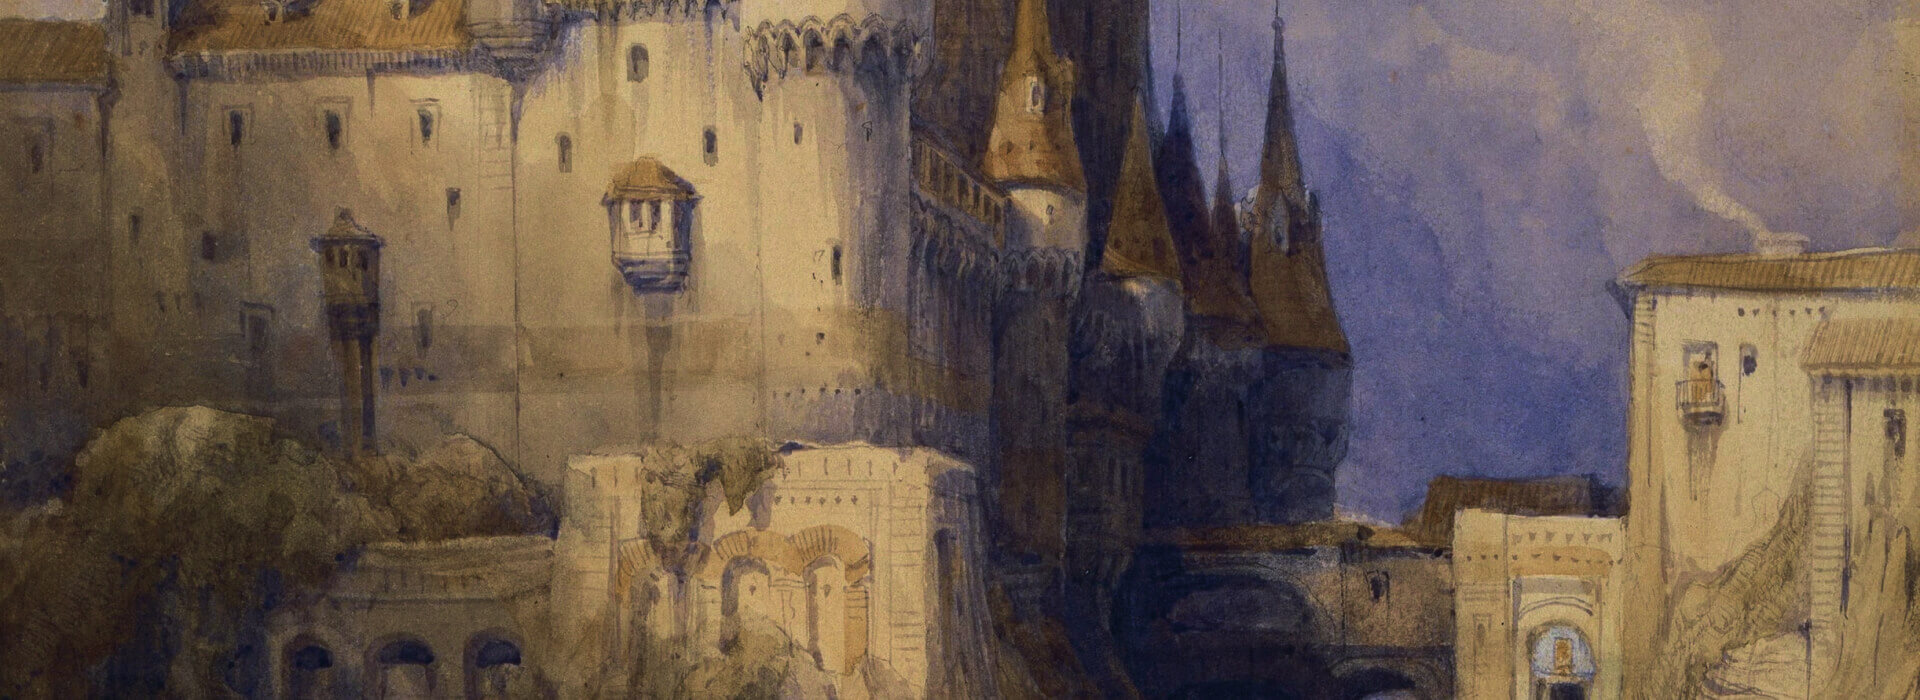
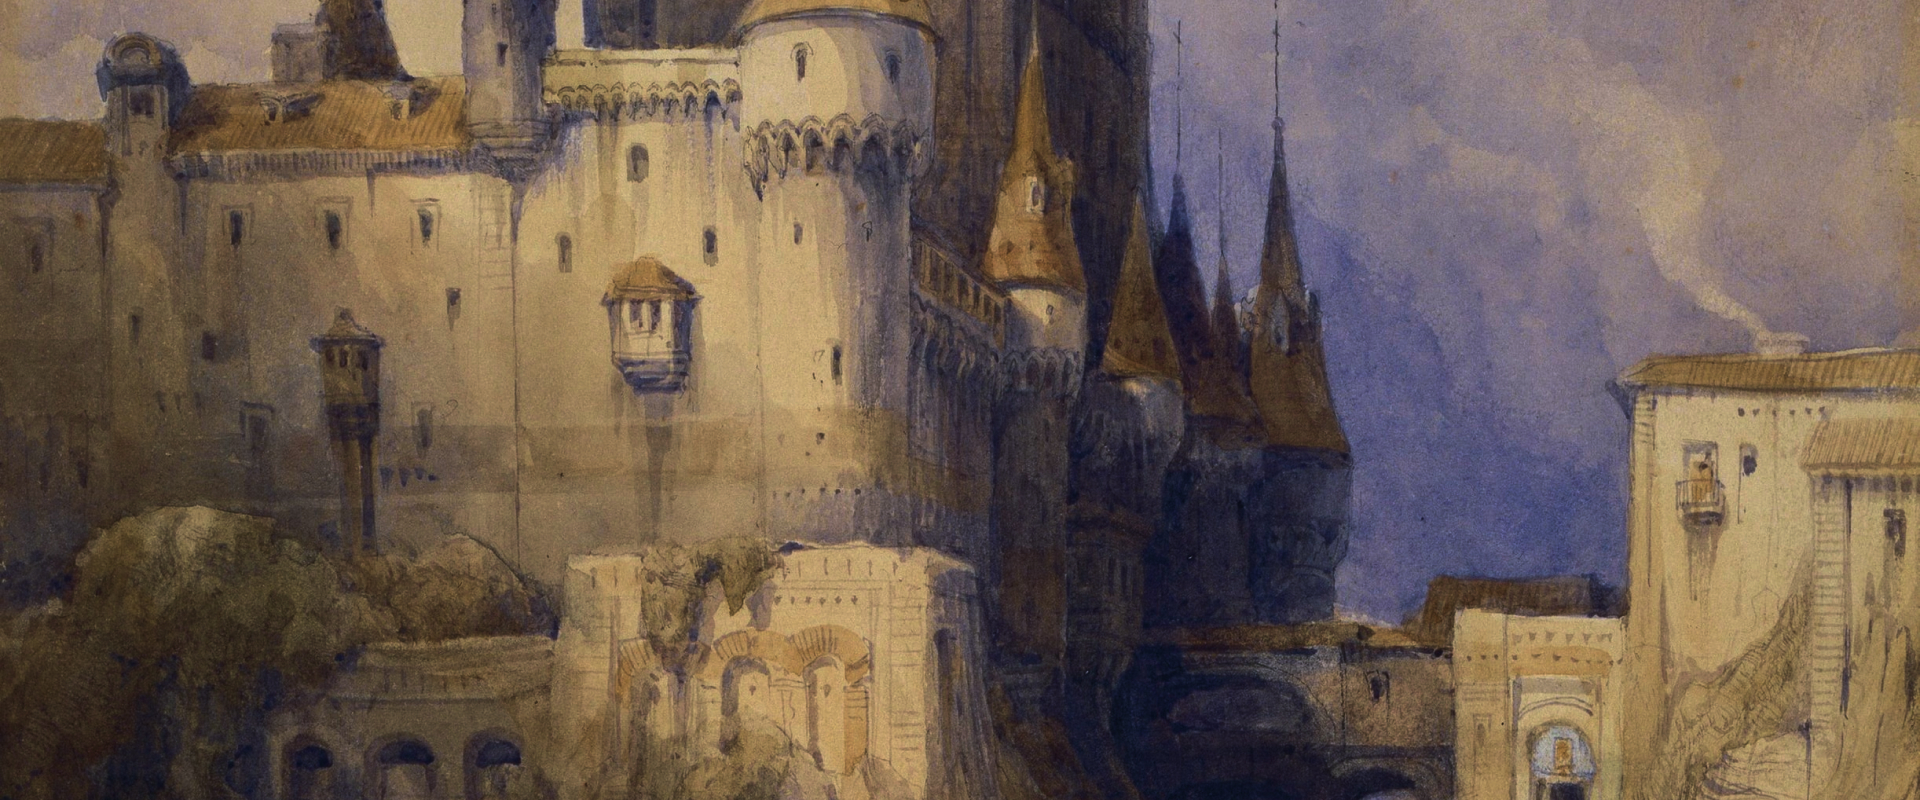
Реализация слайдера в hero

diff --git a/css/blocks/_hero.css b/css/blocks/_hero.css
@@ -14,21 +14,33 @@
     --hero-height-desktop: 700px;
 
     position: relative;
-    width: 100%;
     min-height: var(--hero-height);
-
-    overflow: hidden;
 }
 
-.hero::after {
-    content: "";
+@media (min-width: 768px) {
+    .hero {
+        min-height: var(--hero-height-tablet);
+    }
+} 
+
+@media (min-width: 1280px) {
+    .hero {
+        min-height: var(--hero-height-desktop);
+    }
+}
+
+.hero__slide {
+    min-height: var(--hero-height);
+}
+
+.hero__slide::before {
+    content: '';
     position: absolute;
     top: 0;
     right: 0;
-    bottom: 0;
     left: 0;
+    bottom: 0;
 
-    background-image: url('../../img/hero-1_320-767.jpg');
     background-repeat: no-repeat;
     background-size: cover;
     background-position: center;
@@ -36,24 +48,52 @@
     animation: zoom alternate 30s linear infinite;
 }
 
+.hero__slide--1::before {
+    background-image: url('../../img/hero-1_320-767.jpg');
+}
+
+.hero__slide--2::before {
+    background-image: url('../../img/hero-2_320-767.jpg');
+}
+
+.hero__slide--3::before {
+    background-image: url('../../img/hero-3_320-767.jpg');
+}
+
 @media (min-width: 768px) {
-    .hero {
+    .hero__slide {
         min-height: var(--hero-height-tablet);
     }
 
-    .hero::after {
+    .hero__slide--1::before {
         background-image: url('../../img/hero-1_768-1279.jpg');
     }
+    
+    .hero__slide--2::before {
+        background-image: url('../../img/hero-2_768-1279.jpg');
+    }
+    
+    .hero__slide--3::before {
+        background-image: url('../../img/hero-3_768-1279.jpg');
+    } 
 }
 
 @media (min-width: 1280px) {
-    .hero {
+    .hero__slide {
         min-height: var(--hero-height-desktop);
     }
 
-    .hero::after {
+    .hero__slide--1::before {
         background-image: url('../../img/hero-1-desktop.jpg');
     }
+    
+    .hero__slide--2::before {
+        background-image: url('../../img/hero-2-desktop.jpg');
+    }
+    
+    .hero__slide--3::before {
+        background-image: url('../../img/hero-3-desktop.jpg');
+    } 
 }
 
 .hero__container {
@@ -61,15 +101,17 @@
     --hero-content-width-tablet: var(--max-width-container);
 
     position: absolute;
-    z-index: var(--z-index-hero-background);
+    z-index: var(--z-index-hero-content);
     top: 0;
+    bottom: 0;
     left: 0;
     right: 0;
-    bottom: 0;
 
+    box-sizing: border-box;
     padding-top: 34px;
     padding-bottom: 45px;
     max-width: var(--hero-content-width);
+    height: 100%;
 
     text-align: center;
     color: var(--text-color-inverse);

diff --git a/index.html b/index.html
@@ -160,6 +160,13 @@
 					Художественная галерея Blanchard
 				</h1>
 				<section class="hero">
+					<div class="hero__slider swiper-container">
+						<div class="hero__wrapper swiper-wrapper">
+							<div class="hero__slide hero__slide--1 swiper-slide"></div>
+							<div class="hero__slide hero__slide--2 swiper-slide"></div>
+							<div class="hero__slide hero__slide--3 swiper-slide"></div>
+						</div>
+					</div>
 					<div class="hero__container container">
 						<h2 class="hero__title">
 							Прикоснитесь к&nbsp;прекрасному
@@ -3622,6 +3629,7 @@
 		<script src="js/menu.js"></script>
 		<script src="js/dropdown-list.js"></script>
 		<script src="js/search-form.js"></script>
+		<script src="js/hero-slider.js"></script>
 		<script src="js/select-filter.js"></script>
 		<script src="js/gallery-slider.js"></script>
 		<script src="js/tabs-countries.js"></script>

diff --git a/js/hero-slider.js b/js/hero-slider.js
@@ -1,0 +1,13 @@
+document.addEventListener('DOMContentLoaded', function() {
+    var heroSlider = new Swiper('.hero__slider', {
+        loop: true,
+        touchRatio: 0,
+        updateOnWindowResize: true,
+
+        speed: 2000,
+        autoplay: {
+            delay: 4000,
+        },
+        effect: 'fade',
+    });
+});

diff --git a/css/base/_variables.css b/css/base/_variables.css
@@ -51,7 +51,7 @@
     --z-index-menu-open: 200;
     --z-index-search-btn-open: 90;
     --z-index-header-lower-block: 80;
-    --z-index-hero-background: 70;
+    --z-index-hero-content: 70;
     --z-index-select-filter: 30;
     --z-index-artists-btn: 30;
     --z-index-price-filter-input: 10;
